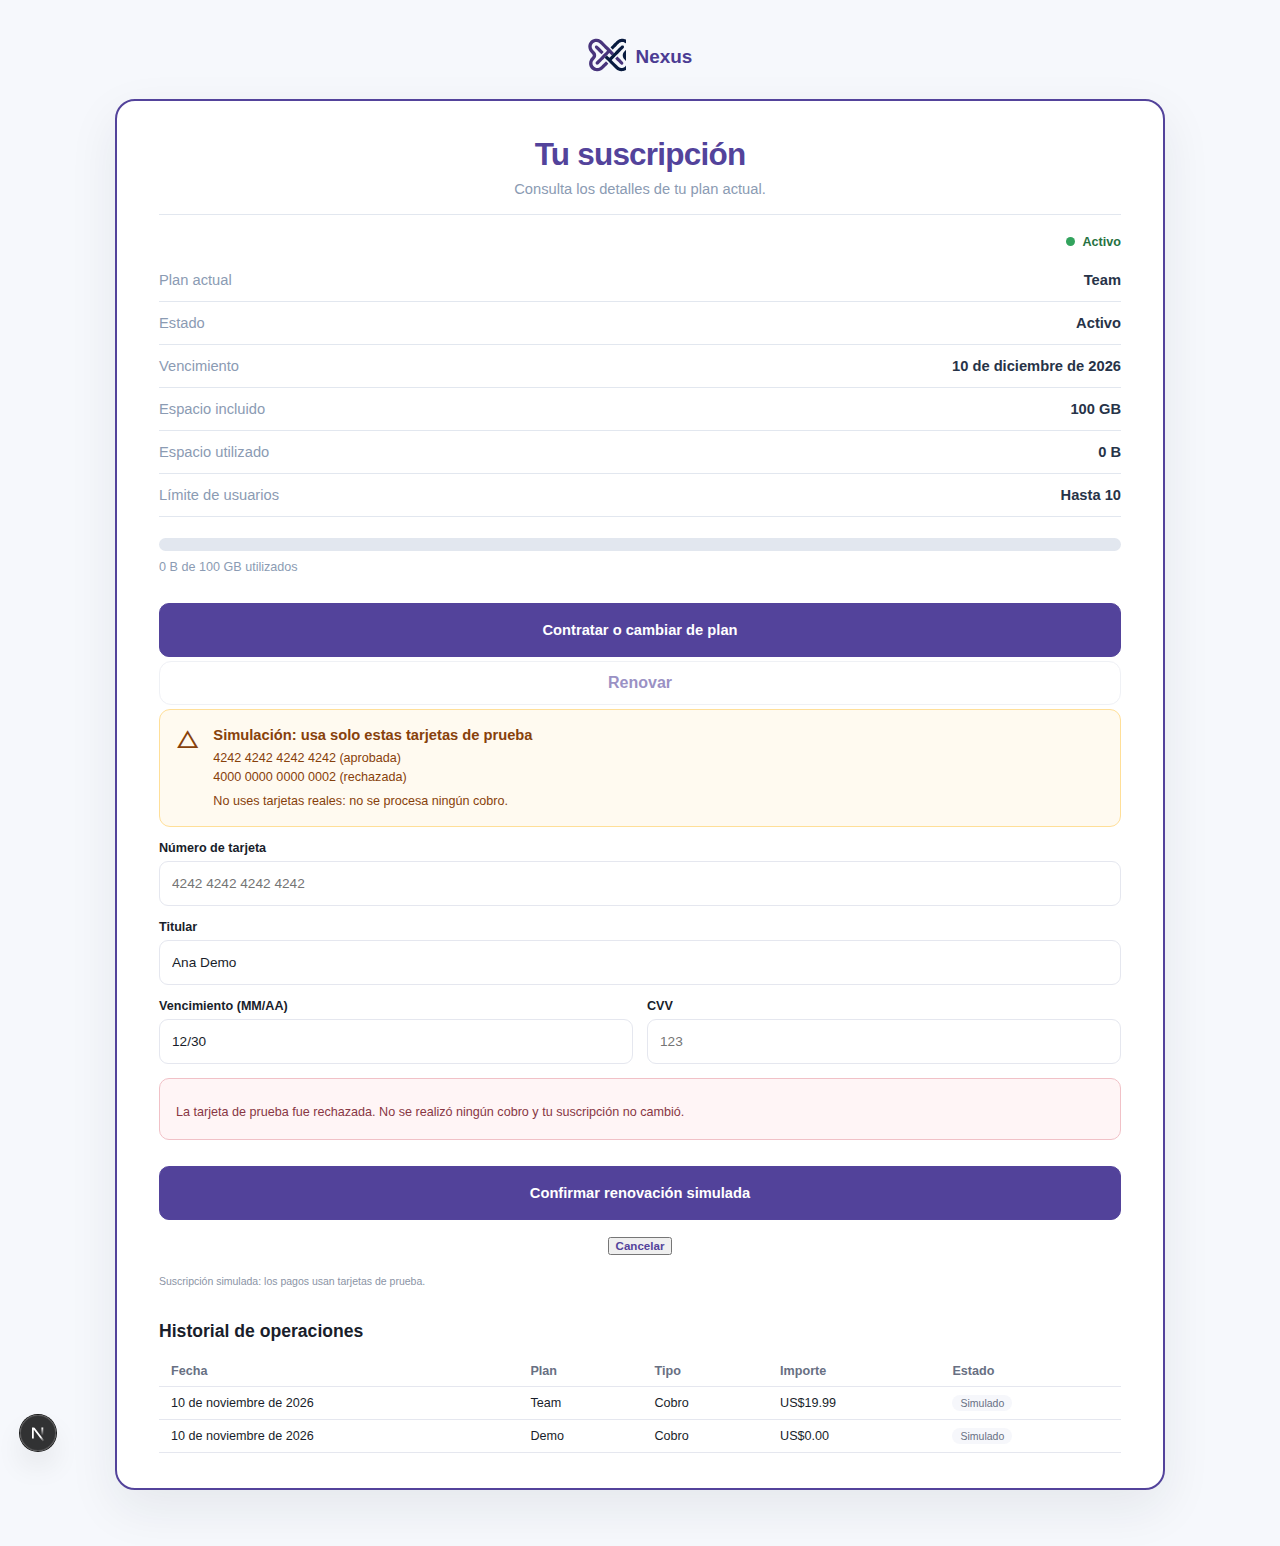
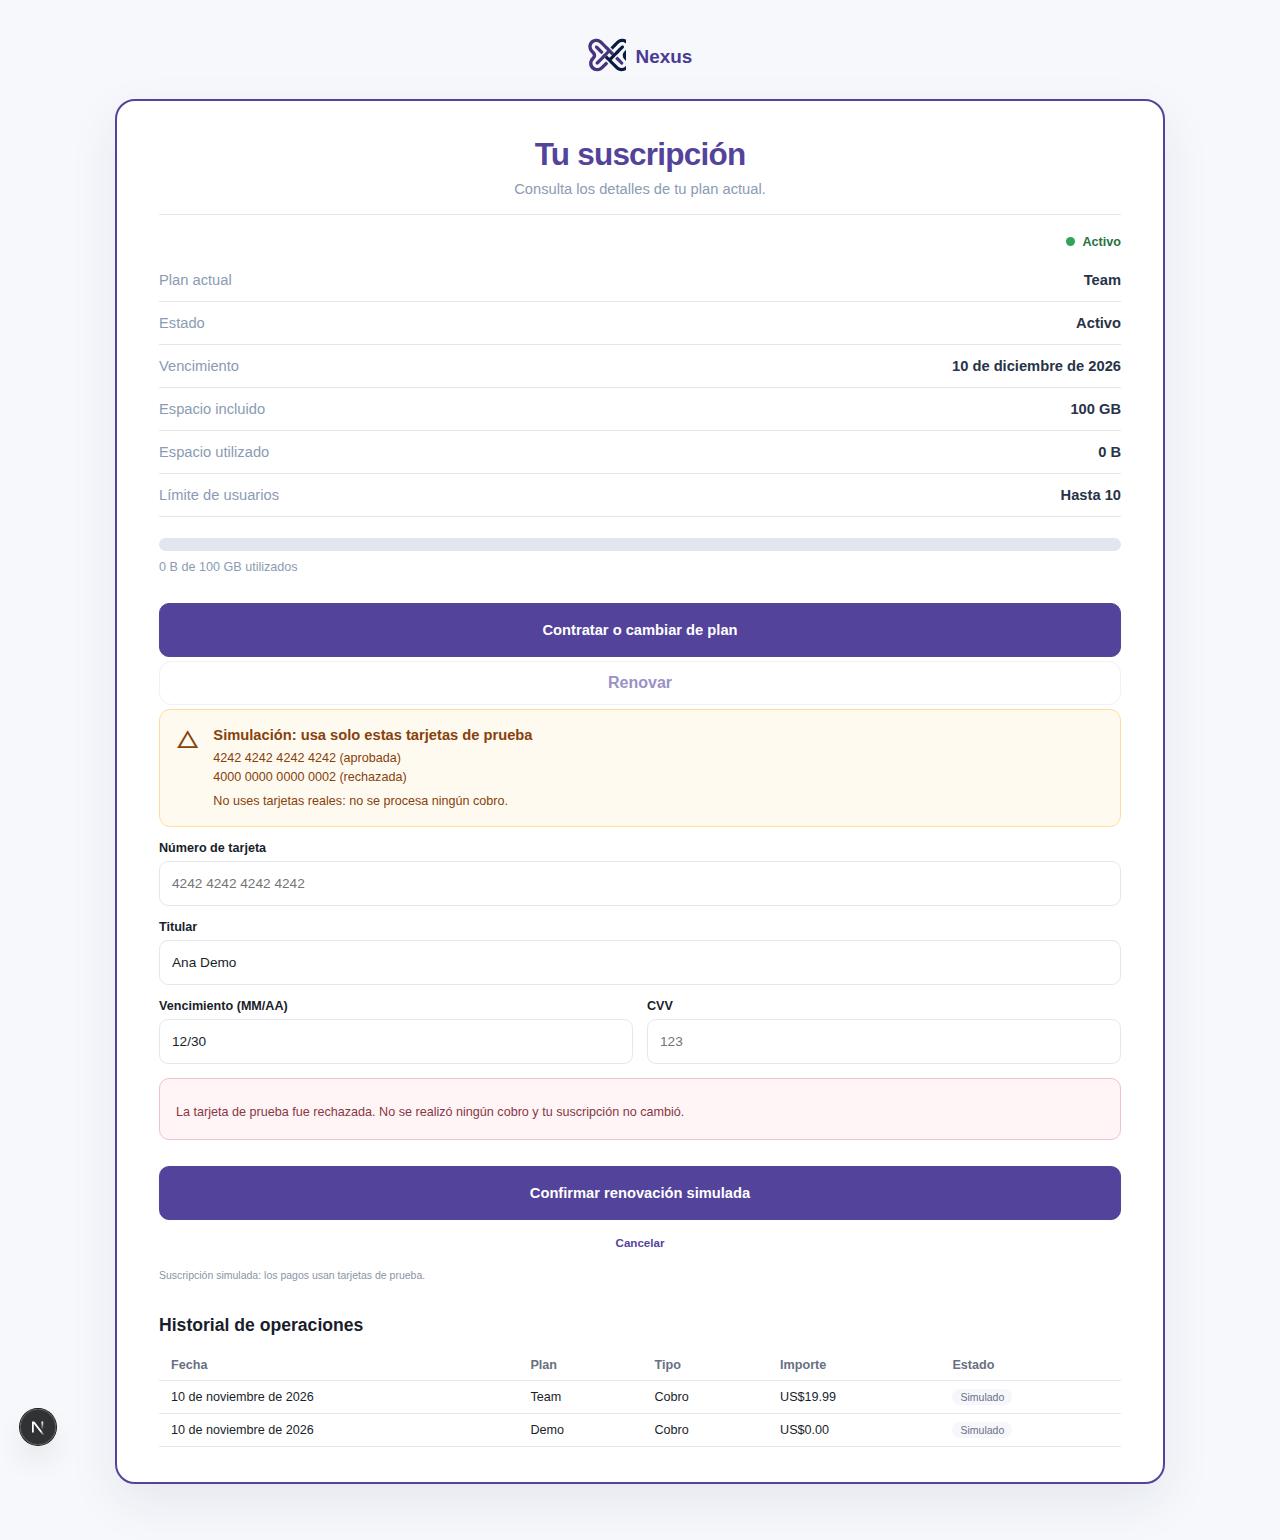
docs(evidencia): regenerar capturas de renovación tras corregir Cancelar
- c07 y m02 se regeneran con el botón Cancelar corregido.
- Se comprueba en el navegador que el botón no tiene borde ni fondo nativos y que
  cierra el formulario de renovación.
- La prueba de humo de 12 casos se repitió tras el rebase sobre main (SPEC-503):
  mismo resultado.

diff --git a/docs/evidencia/spec-305/RESUMEN.md b/docs/evidencia/spec-305/RESUMEN.md
@@ -38,7 +38,7 @@ Chromium headless con Playwright, contra la web y la API reales. Escritorio a 12
 
 ## Prueba de humo de la API
 
-Contra la base temporal, 12 casos en verde:
+Contra la base temporal, 12 casos en verde (la prueba se repitió tras rebasar la rama sobre `main` con SPEC-503, con el mismo resultado):
 
 1. Login del administrador.
 2. Activar Team con `4242` → 201, la suscripción cambia.
@@ -66,7 +66,7 @@ Contra la base temporal, 12 casos en verde:
 
 ## Desviaciones y notas
 
-- El botón "Cancelar" del formulario de renovación se ve como botón con borde, no como enlace. Es cosmético y queda pendiente.
+- El botón "Cancelar" del formulario de renovación se veía como botón con borde. Se corrigió: ahora tiene aspecto de enlace (regla `button.billing-secondary-link` en `globals.css`). `c07` y `m02` se regeneraron con la corrección, y se comprobó en el navegador que el borde y el fondo nativos desaparecen y que el botón cierra el formulario.
 - Las capturas usan el servidor de desarrollo de Next.js, que muestra un indicador "N" en la esquina inferior izquierda. No forma parte de la aplicación.
 - Las capturas son posteriores a la corrección de reactivar el plan vigente (commit `abff87a`).
 - Los mensajes de validación del DTO para mes 13 o CVV de 2 dígitos llegan al usuario como "Datos ausentes o mal formados", porque el filtro de errores no reenvía mensajes sin `code`. El formulario valida el formato antes de enviar, así que el usuario normalmente no llega a ese caso.
